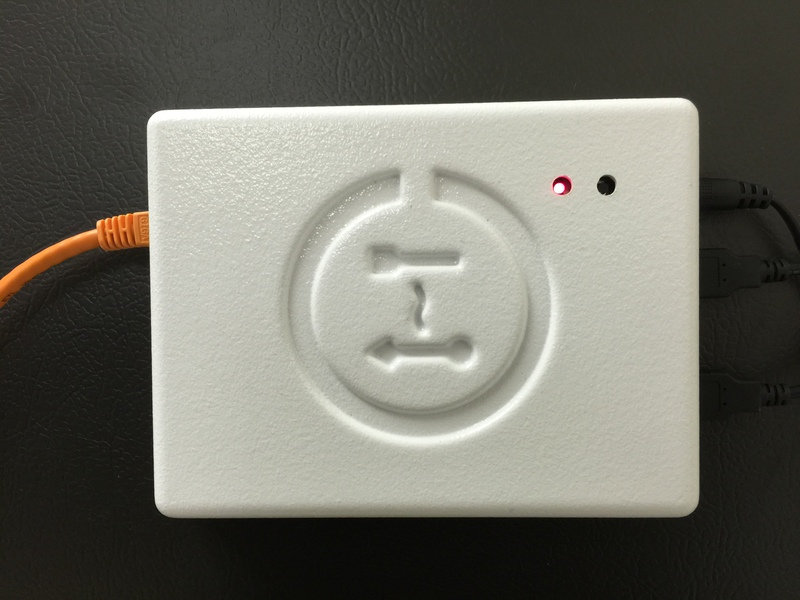
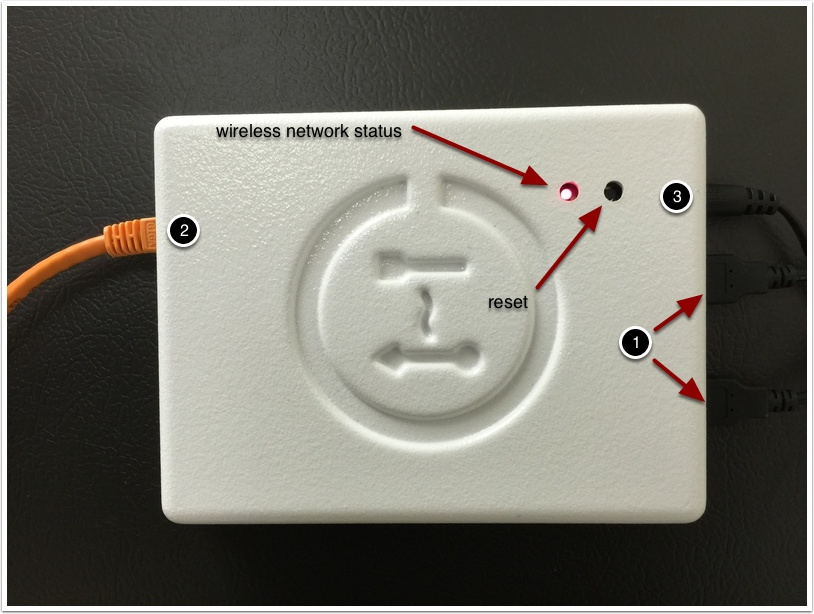
update documentation

diff --git a/gbck.md b/gbck.md
@@ -2,8 +2,9 @@
 
 ## Physical Connections:
 ![gbck_top](images/gbck_top.jpg)
+
 1. 2 USB Hubs 
-2. 1 Ethernet Port (On the top of the refrigerator) ![no_plug](images/refrigerator_top.jpg) ![plug](images/refrigerator_top_with_plug.jpg)
+2. 1 Ethernet Port ![no_plug](images/refrigerator_top.jpg) ![plug](images/refrigerator_top_with_plug.jpg)
 3. 1 Power Supply 
 
 ## Network Connection

diff --git a/README.md b/README.md
@@ -11,3 +11,5 @@ Accomplishing those two goals is all about sensing the environment inside of the
 ## Background
 * [How Does the Freezer Burn our Food?](http://www3.interscience.wiley.com/cgi-bin/fulltext/122278975/PDFSTART)
 
+[Green Bean Connect Kit Setup](./gbck.md)
+
